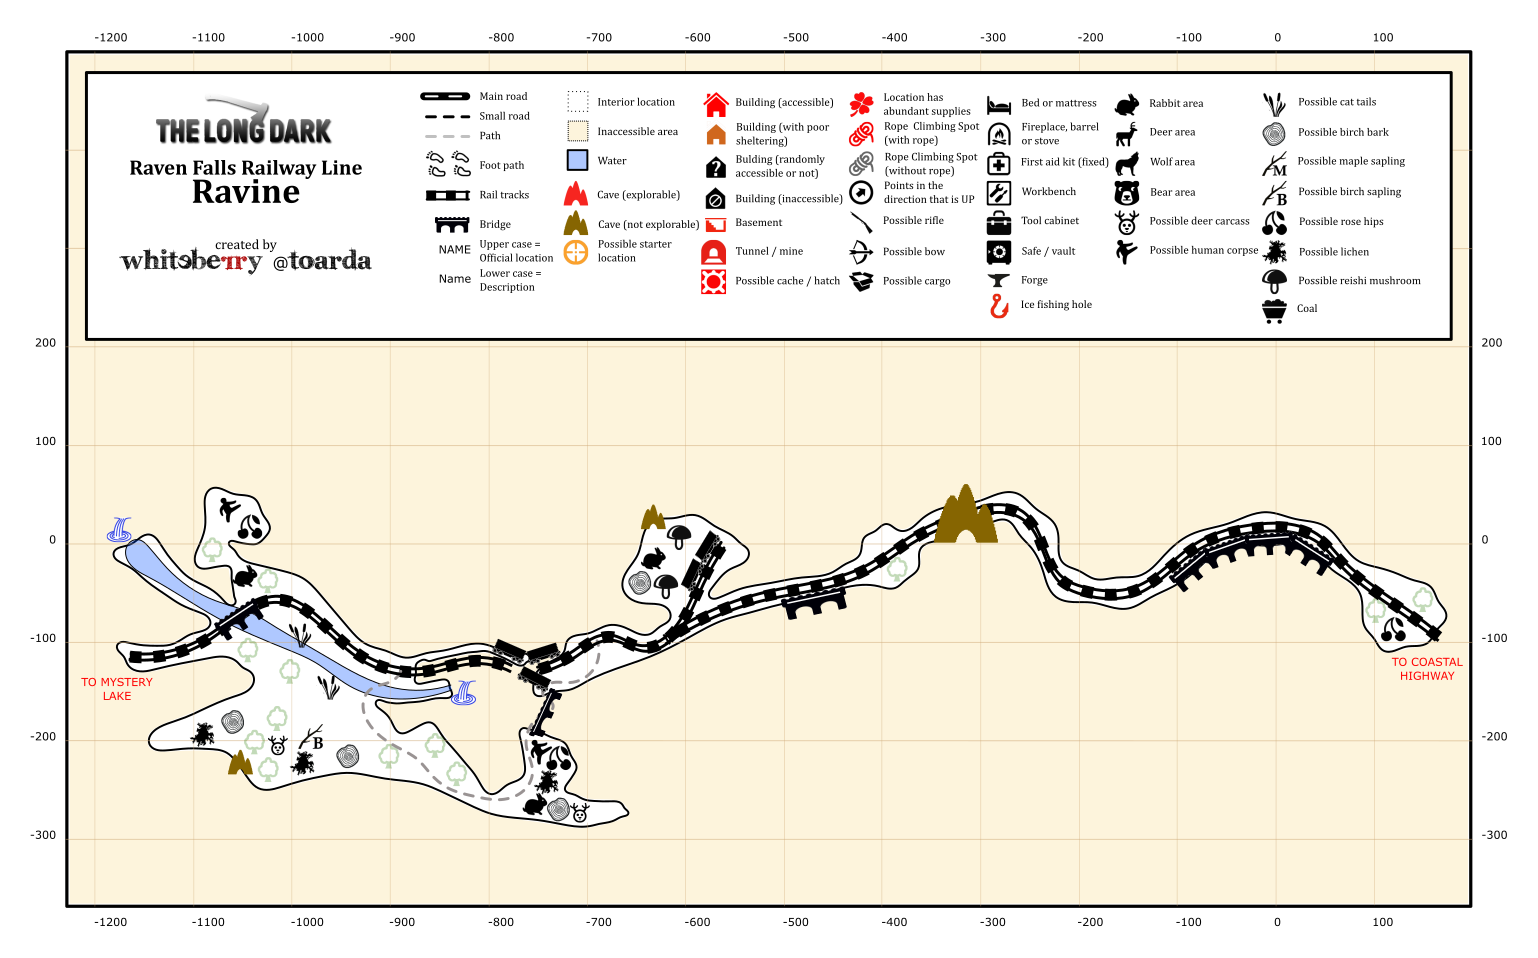
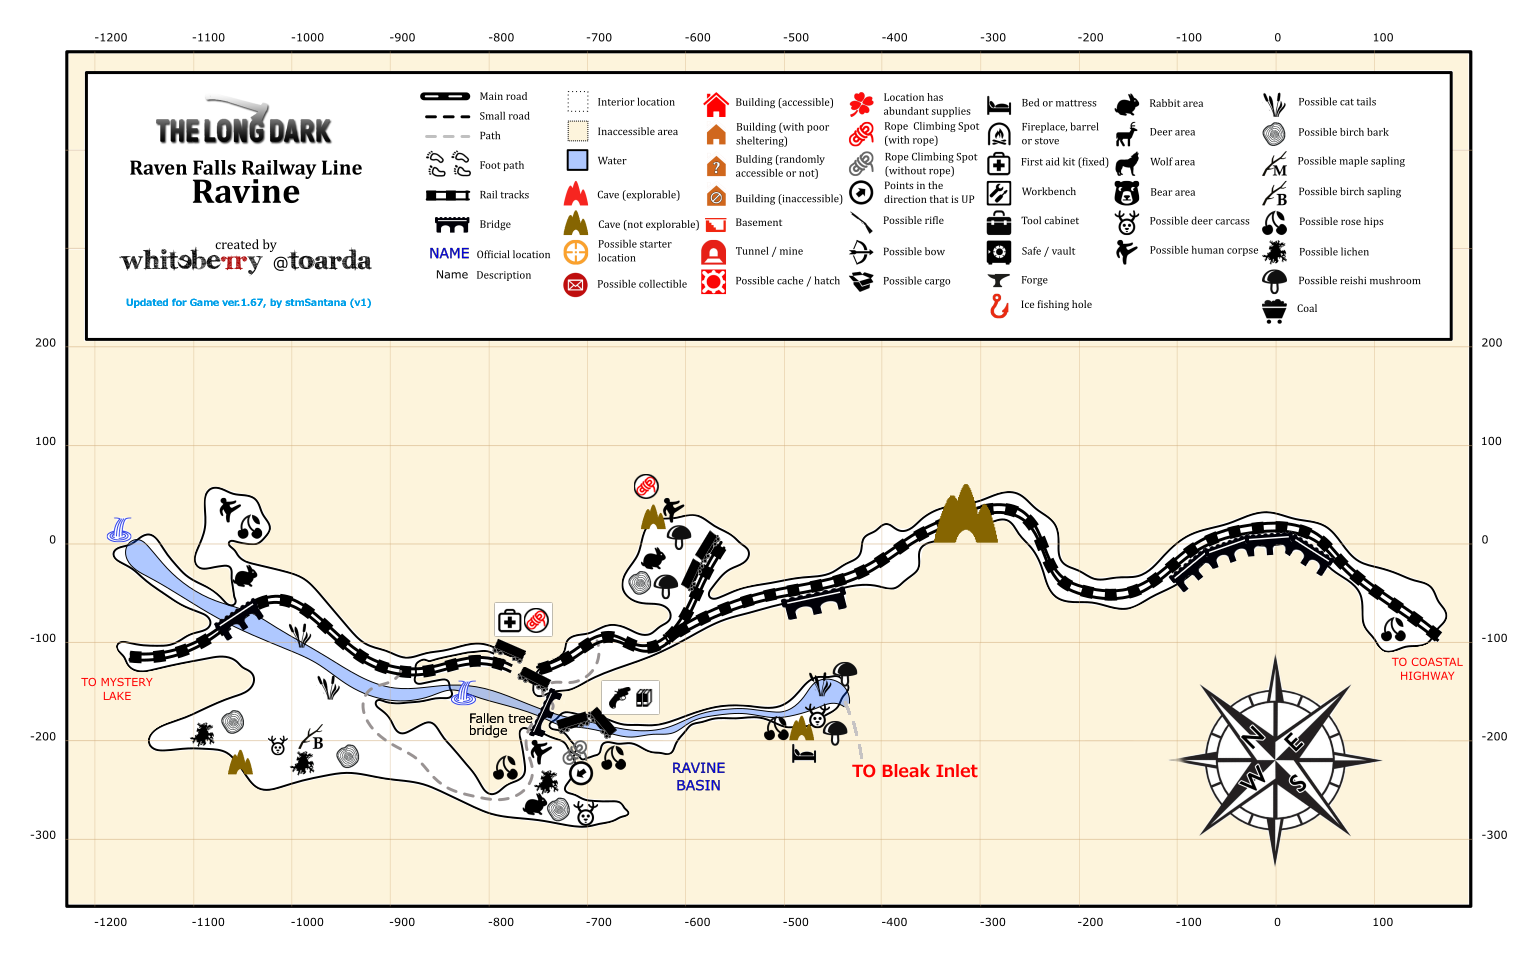
updated Ravine map

diff --git a/CHANGELOG.md b/CHANGELOG.md
@@ -1,7 +1,8 @@
 ##### 2.0 (not yet released)
 
-* updated Bleak Inlet map
-    * it will be only copied if "The Long Dark Helpers/Maps Images" folder doesn't exist yet
+* updated some of the maps - they will be only copied to "The Long Dark Helpers/Maps Images" folder if it doesn't exist yet
+    * Bleak Inlet
+    * Ravine
 
 ##### 1.2 (30/01/2020)
 
